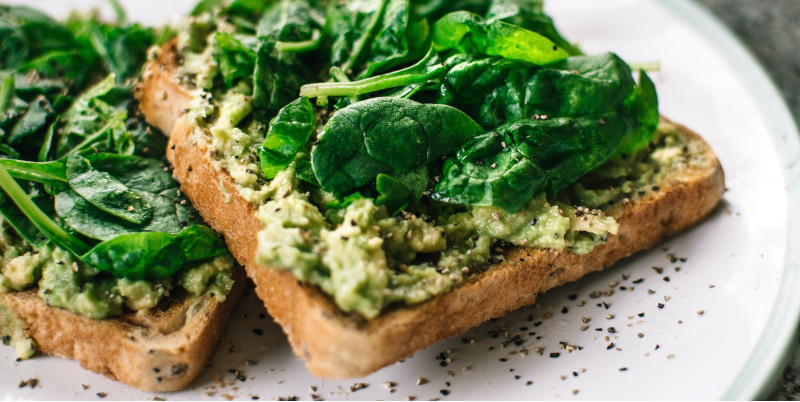
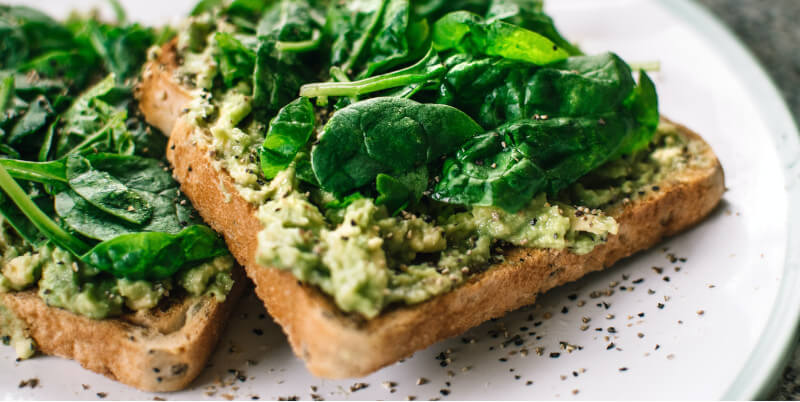
Images compressed, unused imaged deleted. Readme credits updated

Changed region(s): [[0.625, 0.3582, 0.6562, 0.3881], [0.5312, 0.1493, 0.5625, 0.1791], [0.4375, 0.1791, 0.4688, 0.209]]

diff --git a/README.md b/README.md
@@ -27,7 +27,7 @@ The UX goal of this website is to build a fun, easy to use website for users to 
 
 ### Target Audience
 
-One target audience for Eating Vegan are people who want to explore veganism and see what different foods they can make. Eating vegan's main target audience is people who are already Vegan and want to get inspiration for what to cook for breakfast, lunch, dinner or dessert and share their own recipes with others to furthur promote that veganism is not boring! 
+Eating vegan's main target audience is people who are already Vegan and want to get inspiration for what to cook for breakfast, lunch, dinner or dessert and share their own recipes with others to furthur promote that veganism is not boring! Another target audience for Eating Vegan are people who want to explore veganism and see what different foods are out there that they can make.
 
 ### User Goals: 
 
@@ -207,7 +207,7 @@ Subscribers | subscriber_email | email `maxlength="30"`| string
 
 - [ ] Show more button for recipes(pagination)
 - [ ] User profiles with option to upload images.
-- [ ] Automated email when user signs up.
+- [ ] Automated email when user signs up & subscribe to newsletter.
 - [ ] User could upload an image directly to the website.
 - [ ] Option to view other users profiles and what they have uploaded.
 - [ ] More specific filters for recipes.
@@ -243,10 +243,8 @@ Subscribers | subscriber_email | email `maxlength="30"`| string
 - [W3cValidator](https://validator.w3.org/)
 - Google chrome developer tools.
 - [Flask Documentation](https://flask.palletsprojects.com/en/1.1.x/)
-  - [Flask error pages](https://flask.palletsprojects.com/en/1.1.x/patterns/errorpages)
-  - [For view decorators](https://flask.palletsprojects.com/en/1.1.x/patterns/viewdecorators/)
-  - [For permanent session cookie](https://flask.palletsprojects.com/en/1.1.x/config/)
 - [Video to gif converter](https://ezgif.com/video-to-gif)
+- [Tiny PNG](https://tinypng.com/)
 
 ## Testing
 
@@ -344,20 +342,29 @@ PERMANENT_SESSION_LIFETIME | timedelta(minutes=120)
 
 - [Block Confirm Form Resubmission Javascript Code](https://stackoverflow.com/questions/6320113/how-to-prevent-form-resubmission-when-page-is-refreshed-f5-ctrlr)
 - [Modal code inspiration](https://www.w3schools.com/howto/howto_css_modals.asp)
+- [Flask error pages](https://flask.palletsprojects.com/en/1.1.x/patterns/errorpages)
+- [For view decorators](https://flask.palletsprojects.com/en/1.1.x/patterns/viewdecorators/)
+- [For permanent session cookie](https://flask.palletsprojects.com/en/1.1.x/config/)
 
 ### Content
 
+All content on this website has been created for educational purposes only and all rights are reserved to those credited below:
+
 - All recipes and images created by user "alicepinch" have been taken from [BBC goodfood.](https://www.bbcgoodfood.com/)
-- Other recipes written by "alicepinch" are written by myself.
-- Some recipes will have been added by other users. 
+- Some recipes will have been added by other users and may have been taken from other websites. 
+
+Any issues then please email me at [alicepinch@hotmail.co.uk.](mailto:alicepinch@hotmail.co.uk)
 
 ### Media
 
 The photos used in this site were from:
 
-- [Background photo used across site](https://www.pexels.com/photo/photo-of-vegetable-salad-in-bowls-1640770/)
-- [Default recipe image](https://www.pexels.com/photo/white-and-black-wooden-blocks-3669638/)
-- [Default profile Picture](https://www.pexels.com/photo/scrabble-tiles-in-blue-ceramic-plate-2377164/)
-- Some recipe images were taken from:
-https://www.pexels.com/
-https://unsplash.com/ 
+- https://www.pexels.com/
+- https://unsplash.com/ 
+    - [Background photo used across site](https://www.pexels.com/photo/photo-of-vegetable-salad-in-bowls-1640770/)
+    - [Default recipe image](https://www.pexels.com/photo/white-and-black-wooden-blocks-3669638/)
+    - [Default profile Picture](https://www.pexels.com/photo/scrabble-tiles-in-blue-ceramic-plate-2377164/)
+
+----
+
+This website is for educational purposed only.
